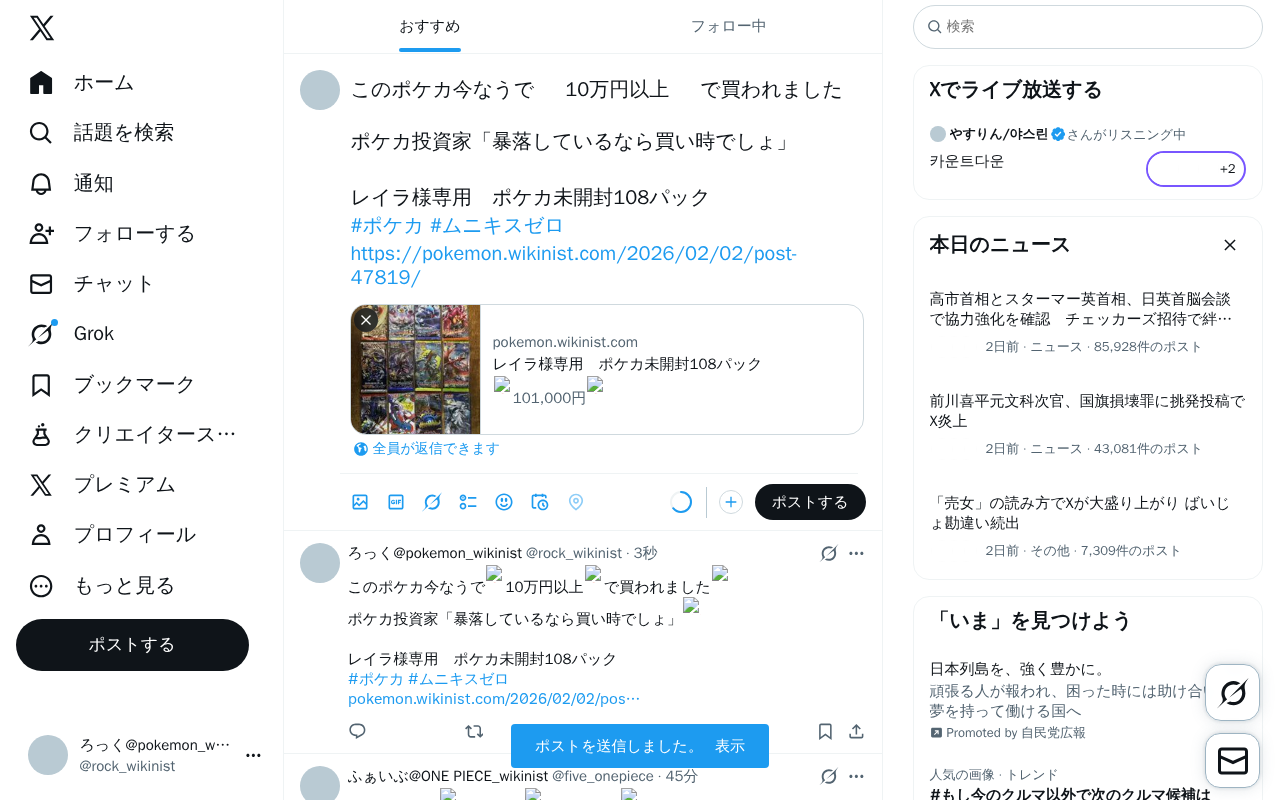
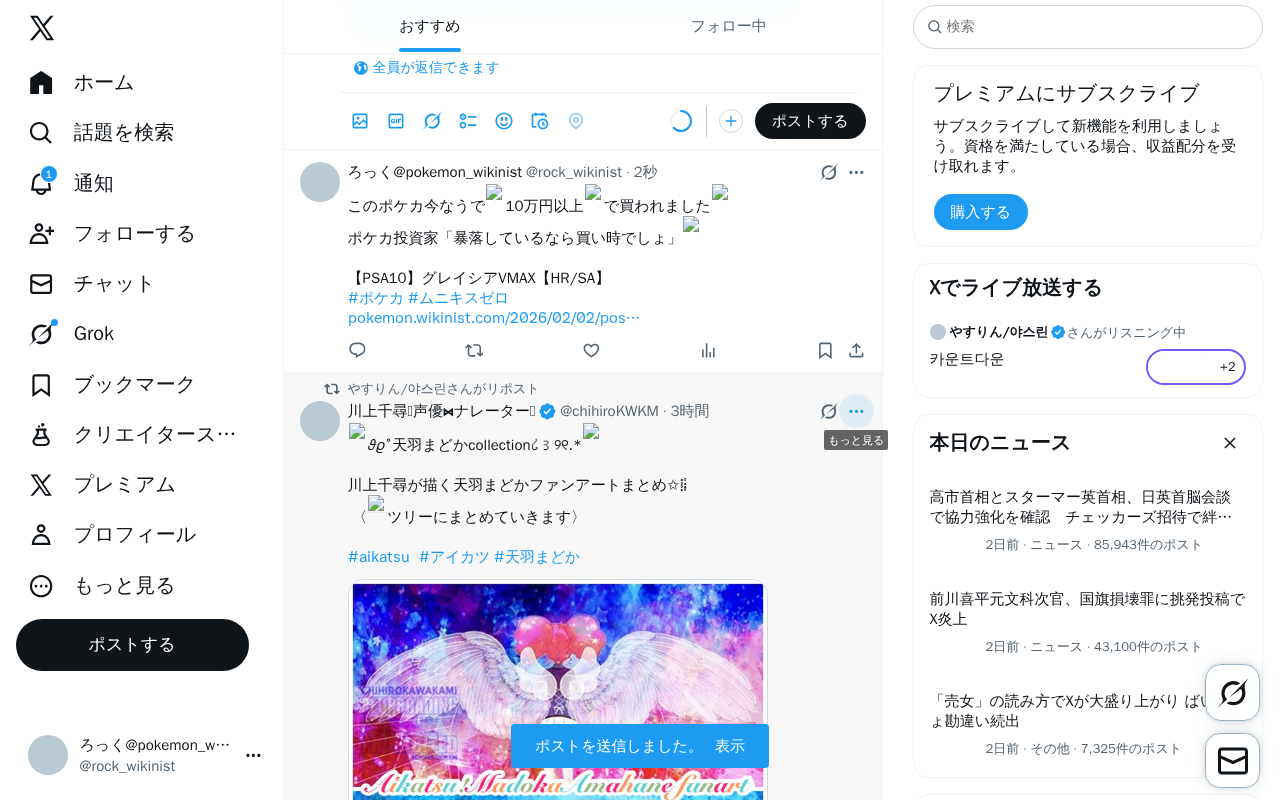
update system data

diff --git a/content/posts/test-pokemon-20260202-222916.md b/content/posts/test-pokemon-20260202-222916.md
@@ -1,0 +1,38 @@
+---
+title: "【PSA10】グレイシアVMAX【HR/SA】"
+date: 2026-02-02T22:29:16+09:00
+description: "🔥117,000円🔥 メルカリで「【PSA10】グレイシアVMAX【HR/SA】」が販売中！"
+amazon_url: "https://jp.mercari.com/item/m42785822605?afid=1391290753"
+robotsNoIndex: true
+categories: ["ポケモン"]
+tags: ["10万円以上"]
+cover:
+  image: "https://static.mercdn.net/thumb/item/webp/m42785822605_1.jpg?1770038140"
+  hiddenInList: true
+  hiddenInSingle: true
+---
+
+<div class="image-and-buttons">
+    <div class="image-area" style="margin-bottom: 20px; text-align: center;">
+        <a href="https://jp.mercari.com/item/m42785822605?afid=1391290753" target="_blank" rel="nofollow sponsored noopener noreferrer">
+            <img src="https://static.mercdn.net/thumb/item/webp/m42785822605_1.jpg?1770038140" alt="117,000" style="max-width: 100%; border-radius: 8px; border: 1px solid #ddd;" />
+        </a>
+        <br><span style="font-size:1.5em;color:red;font-weight:bold;">🔥117,000円🔥</span>
+    </div>
+    <div class="link-buttons">
+        <a href="https://jp.mercari.com/item/m42785822605?afid=1391290753" target="_blank" rel="nofollow sponsored noopener noreferrer">
+            💎 商品状態を見る
+        </a>
+        <a href="https://jp.mercari.com/search?afid=1391290753&category_id=1289&keyword=%E3%80%90PSA10%E3%80%91%E3%82%B0%E3%83%AC%E3%82%A4%E3%82%B7%E3%82%A2VMAX%E3%80%90HR%2FSA%E3%80%91" target="_blank" rel="nofollow sponsored noopener noreferrer">
+            🔍 類似商品を見る
+        </a>
+        <a href="https://jp.mercari.com/search?afid=1391290753&brand_id=&category_id=1289&color_id=&item_condition_id=&item_types=&keyword=%E3%80%90PSA10%E3%80%91%E3%82%B0%E3%83%AC%E3%82%A4%E3%82%B7%E3%82%A2VMAX%E3%80%90HR%2FSA%E3%80%91&order=desc&shipping_method=&shipping_payer_id=&size_id=&sort=created_time&status=sold_out%2Ctrading" target="_blank" rel="nofollow sponsored noopener noreferrer">
+            📈 価格推移・履歴を見る
+        </a>
+    </div>
+</div>
+
+<p style="font-size:1.0em;color:#555;line-height:1.6;">
+「【PSA10】グレイシアVMAX【HR/SA】」はメルカリに出品されました！<br>
+最新のポケモン情報は当サイトで随時更新中です。
+</p>
